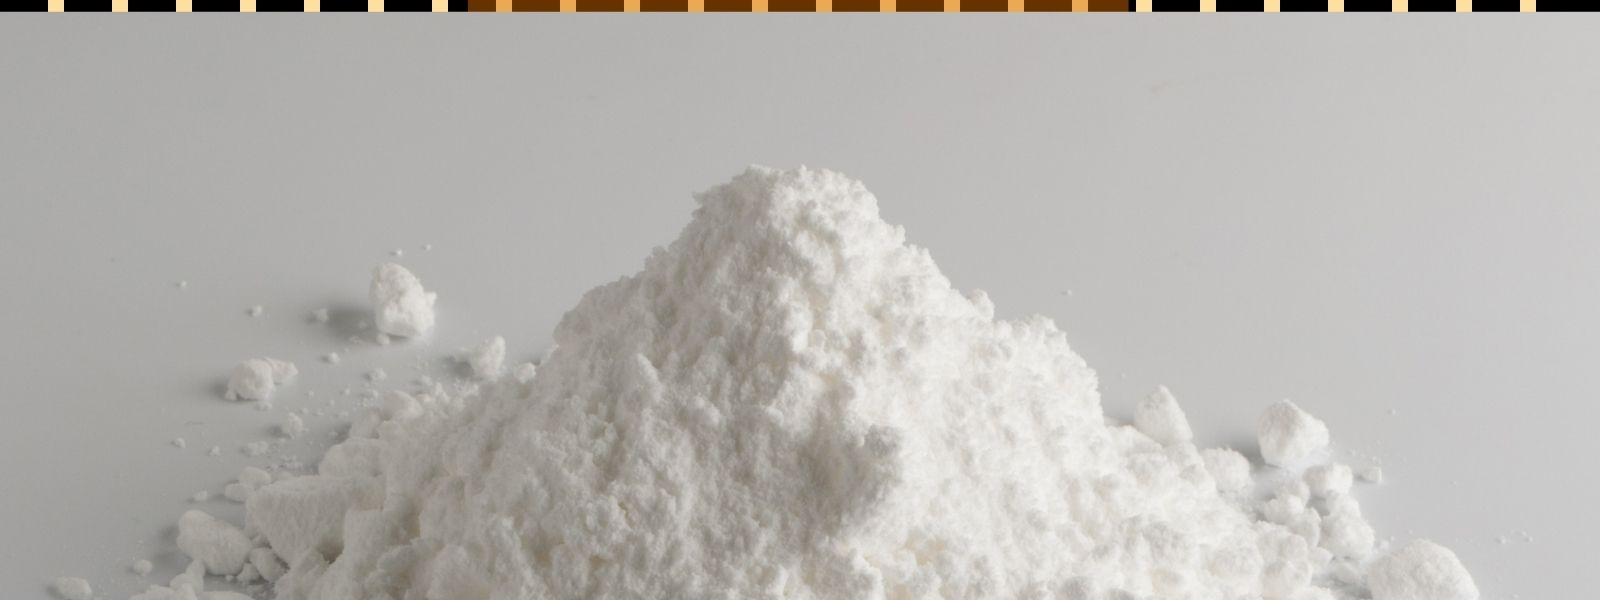
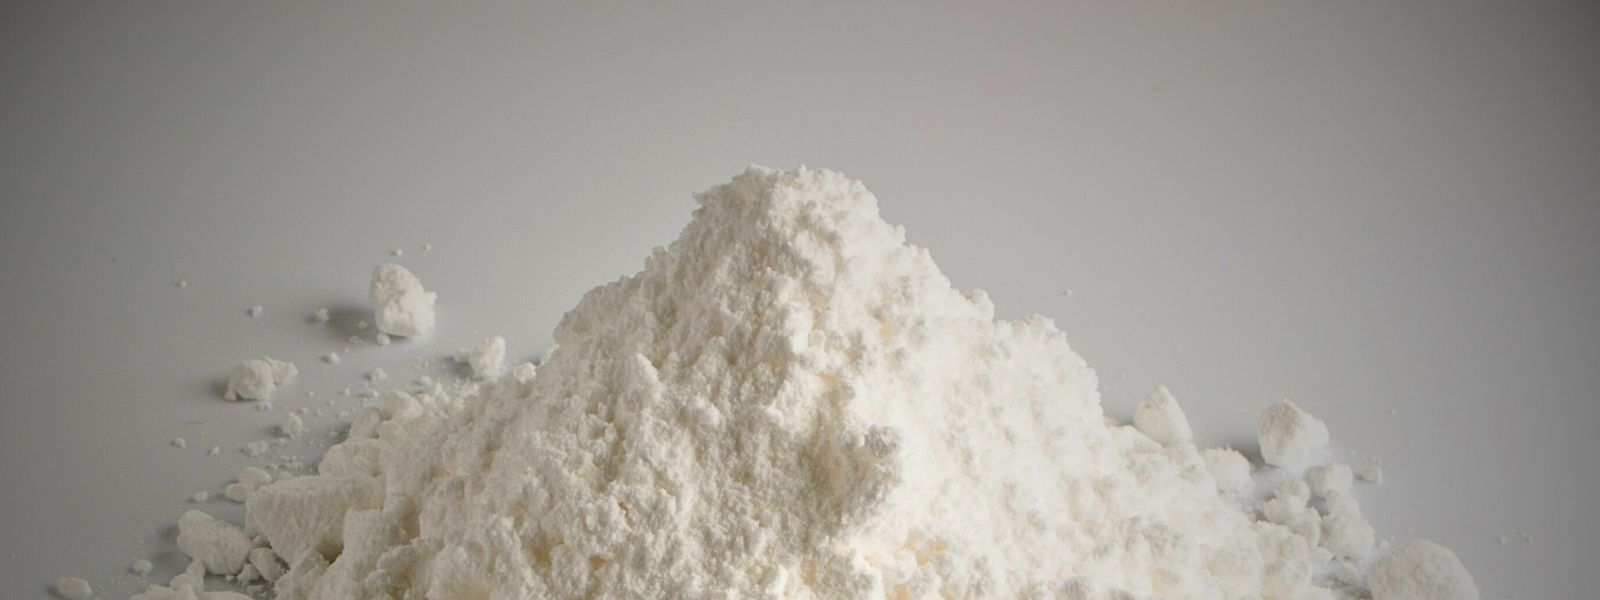
hero-ov

diff --git a/index.html b/index.html
@@ -105,12 +105,7 @@
             border-radius: 0 0 12px 12px;
         }
 
-        .hero-overlay {
-            position: absolute;
-            inset: 0;
-            background: rgba(0,0,0,0.45);
-            border-radius: 0 0 12px 12px;
-        }
+       
 
         .hero-logo-large {
             width: 180px;
@@ -249,7 +244,6 @@
 
     <!-- HERO SECTION -->
     <section id="home" class="hero">
-        <div class="hero-overlay"></div>
 
         <img src="images/logo-color.png" class="hero-logo-large" alt="Flurry Powders Logo">
 
